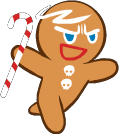
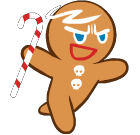
game

diff --git a/main.js b/main.js
@@ -1,7 +1,7 @@
 let canvas = document.getElementById("canvas");
 let ctx = canvas.getContext("2d");
 
-canvas.width = 700;
+canvas.width = 1500;
 canvas.height = 500;
 
 //중력설정
@@ -12,8 +12,8 @@ let runPlayer = new Array();
 let imglink = [
   "images/Character/Taehoon/Run/Run1.png",
   "images/Character/Taehoon/Run/Run2.png",
-  "images/Character/Taehoon/Run/Run3.png",
-  "images/Character/Taehoon/Run/Run4.png",
+  "images/Character/Taehoon/Slide/Slide1.png",
+  "images/Character/Taehoon/Slide/Slide2.png",
 ];
 for (let i = 0; i < 4; i++) {
   runPlayer.push(new Image());
@@ -23,17 +23,17 @@ for (let i = 0; i < 4; i++) {
 //플레이어 설정
 let player = {
   x: 10,
-  y: 300,
+  y: 10,
   width: 96,
   height: 108,
   yspeed: 1,
   index: 0,
-  speed: 30,
+  speed: 15,
   time: 0,
   draw() {
     this.time++;
     if (this.time % this.speed === 0) {
-      if (this.index < 4) {
+      if (this.index < 3) {
         this.index++;
       } else {
         this.index = 0;
@@ -52,7 +52,9 @@ let player = {
   update() {
     this.draw();
     this.y += this.yspeed;
+    this.yspeed += gravity;
 
+    //바닥에 캐릭터 닿으면 멈추기
     if (this.y + this.height + this.yspeed <= canvas.height) {
       this.yspeed += gravity;
     } else this.yspeed = 0;
@@ -60,8 +62,7 @@ let player = {
 };
 
 //플레이어 기본 이미지
-let imgPlayer = new Image();
-imgPlayer.src = "images/Character/Taehoon/Run/Run1.png";
+// let imgPlayer = new Image();
 // console.log(imgPlayer);
 
 //장애물 기본 이미지
@@ -69,17 +70,24 @@ let imgSesame = new Image();
 imgSesame.src = "images/깻잎.png";
 
 //장애물 클래스
-let hurdle = {
-  x: 50,
-  y: 350,
-  width: 250,
-  height: 50,
+class Hurdle {
+  constructor({ x, y, width, height }) {
+    this.x = x;
+    this.y = y;
+    this.width = width;
+    this.height = height;
+  }
   draw() {
     ctx.fillStyle = "yellow";
     ctx.fillRect(this.x, this.y, this.width, this.height);
     ctx.drawImage(imgSesame, this.x, this.y, this.width, this.height);
-  },
-};
+  }
+}
+
+const hurdle = [
+  new Hurdle({ x: 750, y: 350, width: 150, height: 70 }),
+  new Hurdle({ x: 950, y: 250, width: 150, height: 70 }),
+];
 
 //점수표
 // let drawScore = {
@@ -96,7 +104,6 @@ let hurdle = {
 
 //전역변수
 let timer = 0;
-let hurdleUnit = [];
 let jumpTimer = 0;
 let jump = false;
 let animation;
@@ -106,46 +113,41 @@ function game() {
   animation = requestAnimationFrame(game);
   timer++;
 
-  //장애물 삭제
+  //전체 영역 클리어
   ctx.clearRect(0, 0, canvas.width, canvas.height);
 
-  //장애물을 배열에 놓고 배출
-  // if (timer % 270 === 0) {
-  //   let hurdle = new Hurdle();
-  //   hurdleUnit.push(hurdle);
-  // }
-
-  // hurdleUnit.forEach((a, i, o) => {
-  //   if (a.x < 0) {
-  //     o.splice(i, 1);
-  //   }
-  //   a.x--;
-  //   collision(player, a);
-  //   a.draw();
-  // });
-
-  if (
-    player.y + player.height <= hurdle.y &&
-    player.y + player.height + player.yspeed >= hurdle.y &&
-    player.x + player.width >= hurdle.x &&
-    player.x <= hurdle.x + hurdle.width
-  ) {
-    player.yspeed = 0;
+  //장애물 배출
+  if (timer % 2 === 0) {
+    hurdle.forEach((a, i, o) => {
+      if (a.x < 0) {
+        o.splice(i, 1);
+      }
+      // collision(player, a);
+      a.x -= 2;
+      a.draw();
+    });
   }
+  console.log(hurdle);
+
+  //장애물 올라타기
+  hurdle.forEach((Hurdle) => {
+    if (
+      player.y + player.height <= Hurdle.y &&
+      player.y + player.height + player.yspeed >= Hurdle.y &&
+      player.x + player.width >= Hurdle.x &&
+      player.x <= Hurdle.x + Hurdle.width
+    ) {
+      player.yspeed = 0;
+    }
+  });
 
   //점프기능
   //점프시 점프값 증가 & 이미지 변경
   if (jump == true) {
     player.y -= 7;
     jumpTimer++;
-    imgPlayer.src = "images/Character/Taehoon/Run/Run3.png";
   }
-  //점프 상태 아닐시 y값 증가로 제자리로 돌아감
-  if (jump == false) {
-    if (player.y < 200) {
-      player.y++;
-    }
-  }
+
   //점프값이 50 넘어가면 점프 끝
   if (jumpTimer > 50) {
     jump = false;
@@ -153,27 +155,28 @@ function game() {
   }
   //점프 끝난 후 다시 원래 이미지로
   if (player.y == 200) {
-    imgPlayer.src = "images/Character/Taehoon/Run/Run1.png";
   }
 
   //캐릭터 그리기, 점수 그리기
   player.update();
   // drawScore.draw();
-  hurdle.draw();
+  hurdle.forEach((Hurdle) => {
+    Hurdle.draw();
+  });
 }
 
 //실행
 game();
 
 //충돌확인
-function collision(player, hurdle) {
-  let xMinus = hurdle.x - (player.x + player.width);
-  let yMinus = hurdle.y - (player.y + player.height);
-  if (xMinus < 0 && yMinus < 0) {
-    ctx.clearRect(0, 0, canvas.width, canvas.height);
-    cancelAnimationFrame(animation);
-  }
-}
+// function collision(player, Hurdle) {
+//   let xMinus = Hurdle.x - (player.x + player.width);
+//   let yMinus = Hurdle.y - (player.y + player.height);
+//   if (xMinus < 0 && yMinus < 0) {
+//     ctx.clearRect(0, 0, canvas.width, canvas.height);
+//     cancelAnimationFrame(animation);
+//   }
+// }
 
 //키 코드 확인
 // addEventListener("keydown", function () {
